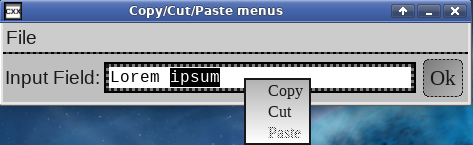
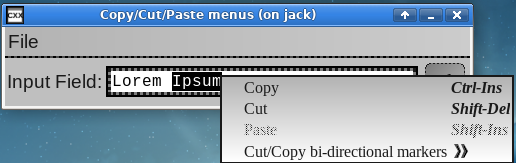
Add option to select bidi format for copy/cut.

diff --git a/copy_cut_paste_menu_items.C b/copy_cut_paste_menu_items.C
@@ -11,6 +11,8 @@
 #include "listlayoutmanager/listlayoutmanager_impl.H"
 #include "generic_window_handler.H"
 #include "messages.H"
+#include "screen.H"
+#include "defaulttheme.H"
 #include <tuple>
 #include <optional>
 
@@ -82,15 +84,28 @@ public:
 	//! Handle for the menu item.
 	const listitemhandle paste_handle;
 
+	//! bidi_format option
+	const listitemhandle bidi_format_automatic;
+
+	//! bidi_format option
+	const listitemhandle bidi_format_none;
+
+	//! bidi_format option
+	const listitemhandle bidi_format_embedded;
+
 	// This is constructed after the copy/cut/paste items are added
 	// to the menu list. Save their handles.
 
 	copy_cut_paste_implObj(const weak_target_element &target_element,
-			       const std::vector<listitemhandle> &handles)
+			       const std::vector<listitemhandle> &handles,
+			       const std::vector<listitemhandle> &bidi_formats)
 		: target_element{target_element},
 		  copy_handle{handles.at(0)},
 		  cut_handle{handles.at(1)},
-		  paste_handle{handles.at(2)}
+		  paste_handle{handles.at(2)},
+		  bidi_format_automatic{bidi_formats.at(0)},
+		  bidi_format_none{bidi_formats.at(1)},
+		  bidi_format_embedded{bidi_formats.at(2)}
 	{
 	}
 
@@ -128,6 +143,18 @@ public:
 				ret.emplace(e_impl,
 					    s->selection_has_owner()
 					    && mw->selection_can_be_received());
+
+				switch (s->impl->default_bidi_format.get()) {
+				case bidi_format::none:
+					bidi_format_none->autoselect();
+					break;
+				case bidi_format::embedded:
+					bidi_format_embedded->autoselect();
+					break;
+				case bidi_format::automatic:
+					bidi_format_automatic->autoselect();
+					break;
+				}
 			}
 		}
 
@@ -177,13 +204,27 @@ public:
 	}
 };
 
+static void set_bidi_format(ONLY IN_THREAD,
+			    const weak_target_element &me,
+			    const list_item_status_info_t &status,
+			    bidi_format selection)
+{
+	auto ei=me->get_element_impl();
+
+	if (!ei)
+		return;
+
+	ei->get_screen()->impl->default_bidi_format=selection;
+}
+
 // Create the copy/cut/paste menu items.
 
 // The key combinations are implemented directly in editorObj::implObj,
 // so we specify that their shorcuts are inactive_shortcut.
 
 static std::vector<list_item_param>
-get_copy_cut_paste_popup_menu_items(const weak_target_element &me)
+get_copy_cut_paste_popup_menu_items(const weak_target_element &me,
+				    std::vector<listitemhandle> &bidi_formats)
 {
 	return {
 		[me]
@@ -244,6 +285,54 @@ get_copy_cut_paste_popup_menu_items(const weak_target_element &me)
 		},
 		inactive_shortcut{"Shift-Ins"},
 		{_("Paste")},
+
+		submenu{
+			[me, &bidi_formats]
+			(const listlayoutmanager &lm)
+			{
+				auto ret=lm->append_items
+					({[me](ONLY IN_THREAD,
+					       const auto &status_info)
+					{
+						set_bidi_format
+							(IN_THREAD,
+							 me, status_info,
+							 bidi_format::automatic
+							 );
+					},menuoption{"copycutpaste@w.libcxx.com"
+						},
+					{_("Heuristically")},
+					[me]
+					(ONLY IN_THREAD,
+					 const auto &status_info)
+					{
+						set_bidi_format
+							(IN_THREAD,
+							 me, status_info,
+							 bidi_format::none
+							 );
+					},
+					menuoption{"copycutpaste@w.libcxx.com"},
+					{_("Never")},
+					[me]
+					(ONLY IN_THREAD,
+					 const auto &status_info)
+					{
+						set_bidi_format
+							(IN_THREAD,
+							 me, status_info,
+							 bidi_format::embedded
+							 );
+					},
+					menuoption{"copycutpaste@w.libcxx.com"},
+					{_("Always")},
+					get_new_items{}
+					});
+
+				bidi_formats=std::move(ret.handles);
+			}
+		},
+		{_("Cut/Copy bi-directional markers")},
 		get_new_items{}
 	};
 }
@@ -262,11 +351,14 @@ listlayoutmanagerObj::append_copy_cut_paste(const element &parent)
 
 	auto target_element=weak_target_element::create(parent->impl);
 
+	std::vector<listitemhandle> bidi_formats;
+
 	auto ret=append_items(get_copy_cut_paste_popup_menu_items
-			      (target_element));
+			      (target_element, bidi_formats));
 
 	return ref<copy_cut_paste_implObj>::create(target_element,
-						   ret.handles);
+						   ret.handles,
+						   bidi_formats);
 }
 
 copy_cut_paste_menu_items
@@ -279,11 +371,14 @@ listlayoutmanagerObj::append_copy_cut_paste(ONLY IN_THREAD,
 
 	auto target_element=weak_target_element::create(parent->impl);
 
+	std::vector<listitemhandle> bidi_formats;
+
 	auto ret=append_items(IN_THREAD,
 			      get_copy_cut_paste_popup_menu_items
-			      (target_element));
+			      (target_element, bidi_formats));
 
-	return ref<copy_cut_paste_implObj>::create(target_element, ret.handles);
+	return ref<copy_cut_paste_implObj>::create(target_element, ret.handles,
+						   bidi_formats);
 }
 
 LIBCXXW_NAMESPACE_END

diff --git a/screen.C b/screen.C
@@ -192,27 +192,28 @@ screenObj::implObj::implObj(const xcb_screen_t *xcb_screen,
 			    const screen::base::visual_t &toplevelwindow_visual,
 			    const const_pictformat &toplevelwindow_pictformat,
 			    const connection_thread &thread)
-	: xcb_screen(xcb_screen),
-	  screen_number(screen_number),
-	  thread(thread),
-	  toplevelwindow_visual(toplevelwindow_visual),
-	  toplevelwindow_pictformat(toplevelwindow_pictformat),
-	  toplevelwindow_colormap(ref<toplevelwindow_colormapObj>
+	: xcb_screen{xcb_screen},
+	  screen_number{screen_number},
+	  thread{thread},
+	  toplevelwindow_visual{toplevelwindow_visual},
+	  toplevelwindow_pictformat{toplevelwindow_pictformat},
+	  toplevelwindow_colormap{ref<toplevelwindow_colormapObj>
 				  ::create(thread, xcb_screen->root,
 					   toplevelwindow_visual->impl
-					   ->visual_id)),
-	  screen_depths(screen_depths),
-	  supported(supported),
-	  current_theme(current_theme),
-	  fc(fontconfig::create()),
-	  ft(freetype::create()),
-	  picturecache(screen_picturecache::create()),
-	  recycled_pixmaps_cache(recycled_pixmaps::create()),
-	  screen_border_cache(border_cache::create()),
-	  fontcaches(screen_fontcaches::create()),
+					   ->visual_id)},
+	  screen_depths{screen_depths},
+	  supported{supported},
+	  current_theme{current_theme},
+	  default_bidi_format{current_theme->default_bidi_format()},
+	  fc{fontconfig::create()},
+	  ft{freetype::create()},
+	  picturecache{screen_picturecache::create()},
+	  recycled_pixmaps_cache{recycled_pixmaps::create()},
+	  screen_border_cache{border_cache::create()},
+	  fontcaches{screen_fontcaches::create()},
 	  ellipsiscaches{ellipsiscache::create()},
-	  iconcaches(icon_cache::create()),
-	  cursor_pointercaches(cursor_pointer_cache::create())
+	  iconcaches{icon_cache::create()},
+	  cursor_pointercaches{cursor_pointer_cache::create()}
 {
 }
 

diff --git a/defaulttheme.C b/defaulttheme.C
@@ -56,6 +56,10 @@ themeoptionsprop(LIBCXX_NAMESPACE_STR "::w::theme::options", "");
 
 static const char use_primary_clipboard_option_id[]="_use_primary_clipboard";
 
+static const char bidi_format_automatic_option_id[]="__bidi_format_automatic";
+static const char bidi_format_none_option_id[]="__bidi_format_none";
+static const char bidi_format_embedded_option_id[]="__bidi_format_embedded";
+
 std::string themedirroot()
 {
 	return themedirbase.get();
@@ -362,8 +366,14 @@ parse_available_theme_options(const xml::doc &theme_configfile)
 		const char *id;
 		const char32_t *description;
 	} reserved_options[]={
-			      {use_primary_clipboard_option_id,
-			       U"Use the primary clipboard for Copy/Cut/Paste"}
+		{use_primary_clipboard_option_id,
+		 U"Use the primary clipboard for Copy/Cut/Paste"},
+		{bidi_format_automatic_option_id,
+		 U"Copy/Cut bi-directional markers heuristically"},
+		{bidi_format_none_option_id,
+		 U"Do not Copy/Cut bi-directional markers"},
+		{bidi_format_embedded_option_id,
+		 U"Always Copy/Cut bi-directional markers"},
 	};
 
 	for (const auto &option:reserved_options)
@@ -489,7 +499,6 @@ public:
 {
 #endif
 }
-
 defaultthemeObj::defaultthemeObj(const xcb_screen_t *screen,
 				 const config &theme_config)
 	: themename{theme_config.themename},
@@ -936,5 +945,19 @@ const char *defaultthemeObj::default_cut_paste_selection() const
 		? "SECONDARY":"PRIMARY";
 }
 
+bidi_format defaultthemeObj::default_bidi_format() const
+{
+	bidi_format f=bidi_format::automatic;
+
+	if (enabled_theme_options.find(bidi_format_none_option_id) !=
+	    enabled_theme_options.end())
+		f=bidi_format::none;
+
+	if (enabled_theme_options.find(bidi_format_embedded_option_id) !=
+	    enabled_theme_options.end())
+		f=bidi_format::embedded;
+
+	return f;
+}
 
 LIBCXXW_NAMESPACE_END

diff --git a/cxxwtheme.C b/cxxwtheme.C
@@ -354,12 +354,23 @@ void theme_infoObj::set_theme_options(const w::main_window &mw,
 	{
 		auto f=glm->append_row();
 
-		auto is_radio=option.label.find('_');
-
 		std::string radio_button_group;
+
+		auto is_radio=option.label.find('_');
 
 		// An option with an underscore is an option group, which
 		// becomes a radio button.
+		//
+		// The clipboard cut/paste option starts with an
+		// undescore, so that becomes an empty radio group.
+		//
+		// bidi_format option starts with a double underscore. We
+		// want that to be a radio group, but not trigger a theme
+		// update redraw, which is already taken care of by the
+		// first leading underscore.
+
+		if (is_radio == 0 && option.label.substr(0, 2) == "__")
+			is_radio=option.label.find('_', 2);
 
 		if (is_radio != option.label.npos)
 			radio_button_group=option.label.substr(0, is_radio);

diff --git a/editor_impl.C b/editor_impl.C
@@ -1308,11 +1308,6 @@ void editorObj::implObj::clear_password_peek(ONLY IN_THREAD)
 				 get_draw_info(IN_THREAD));
 }
 
-richtextstring editorObj::implObj::get_content(const richtextiterator &other)
-{
-	return get_content(cursor, other, std::nullopt);
-}
-
 richtextstring editorObj::implObj::get_content(const richtextiterator &a,
 					       const richtextiterator &b,
 					       const std::optional<bidi_format>
@@ -1777,7 +1772,10 @@ editorObj::implObj::selectionObj::
 selectionObj(xcb_timestamp_t timestamp, const ref<implObj> &me,
 	     const richtextiterator &other)
 	: current_selectionObj(timestamp), me(me),
-	  cut_text{me->get_content(other).get_string()}
+	  cut_text{me->get_content(me->cursor,
+				   other,
+				   me->get_screen()->impl
+				   ->default_bidi_format.get()).get_string()}
 {
 }
 

diff --git a/editor_impl.H b/editor_impl.H
@@ -187,13 +187,6 @@ class LIBCXX_HIDDEN editorObj::implObj
 
 	//! All access to the contents of the input field goes through here.
 
-	//! Returns the characters between the \c cursor and the \c other
-	//! iterator. If this is a password field, the characters get
-	//! retrieved from the real_string instead.
-	richtextstring get_content(const richtextiterator &other);
-
-	//! All access to the contents of the input field goes through here.
-
 	//! Returns the characters between the two iterators.
 	//! If this is a password field, the characters get
 	//! retrieved from the real_string instead.

diff --git a/defaultthemeobj.H b/defaultthemeobj.H
@@ -19,6 +19,7 @@
 #include "x/w/dim_arg.H"
 #include "x/w/connectionfwd.H"
 #include "x/w/connection_threadfwd.H"
+#include "x/w/input_field_configfwd.H"
 #include "x/w/defaultthemefwd.H"
 #include "x/w/impl/themedimfwd.H"
 #include "x/w/uigeneratorsobj.H"
@@ -160,6 +161,9 @@ public:
 
 	//! Default cut/paste selection
 	const char *default_cut_paste_selection() const;
+
+	//! The theme-configured cut/paste bidi format option.
+	bidi_format default_bidi_format() const;
 };
 
 LIBCXXW_NAMESPACE_END

diff --git a/screen.H b/screen.H
@@ -11,6 +11,7 @@
 #include "x/w/pictformatfwd.H"
 #include "x/w/scratch_bufferfwd.H"
 #include "x/w/border_arg.H"
+#include "x/w/input_field_configfwd.H"
 #include "recycled_pixmapsfwd.H"
 #include "x/w/rgb.H"
 #include "connection.H"
@@ -128,6 +129,8 @@ class LIBCXX_HIDDEN screenObj::implObj
 
 	//! The current theme for this screen.
 	current_theme_t current_theme;
+
+	mpobj<bidi_format> default_bidi_format;
 
 	//! The fontconfig library
 
